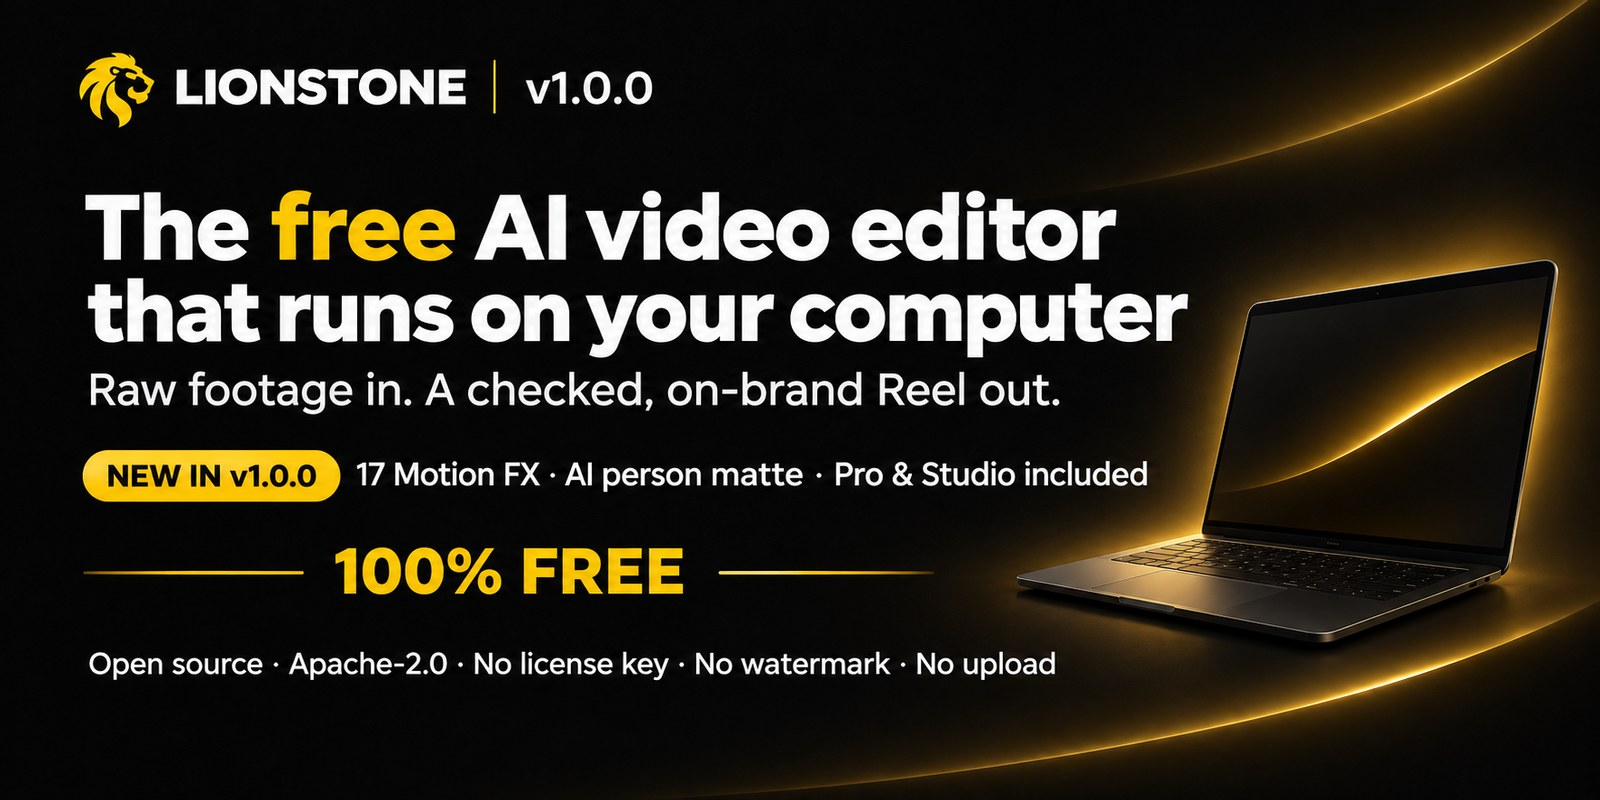
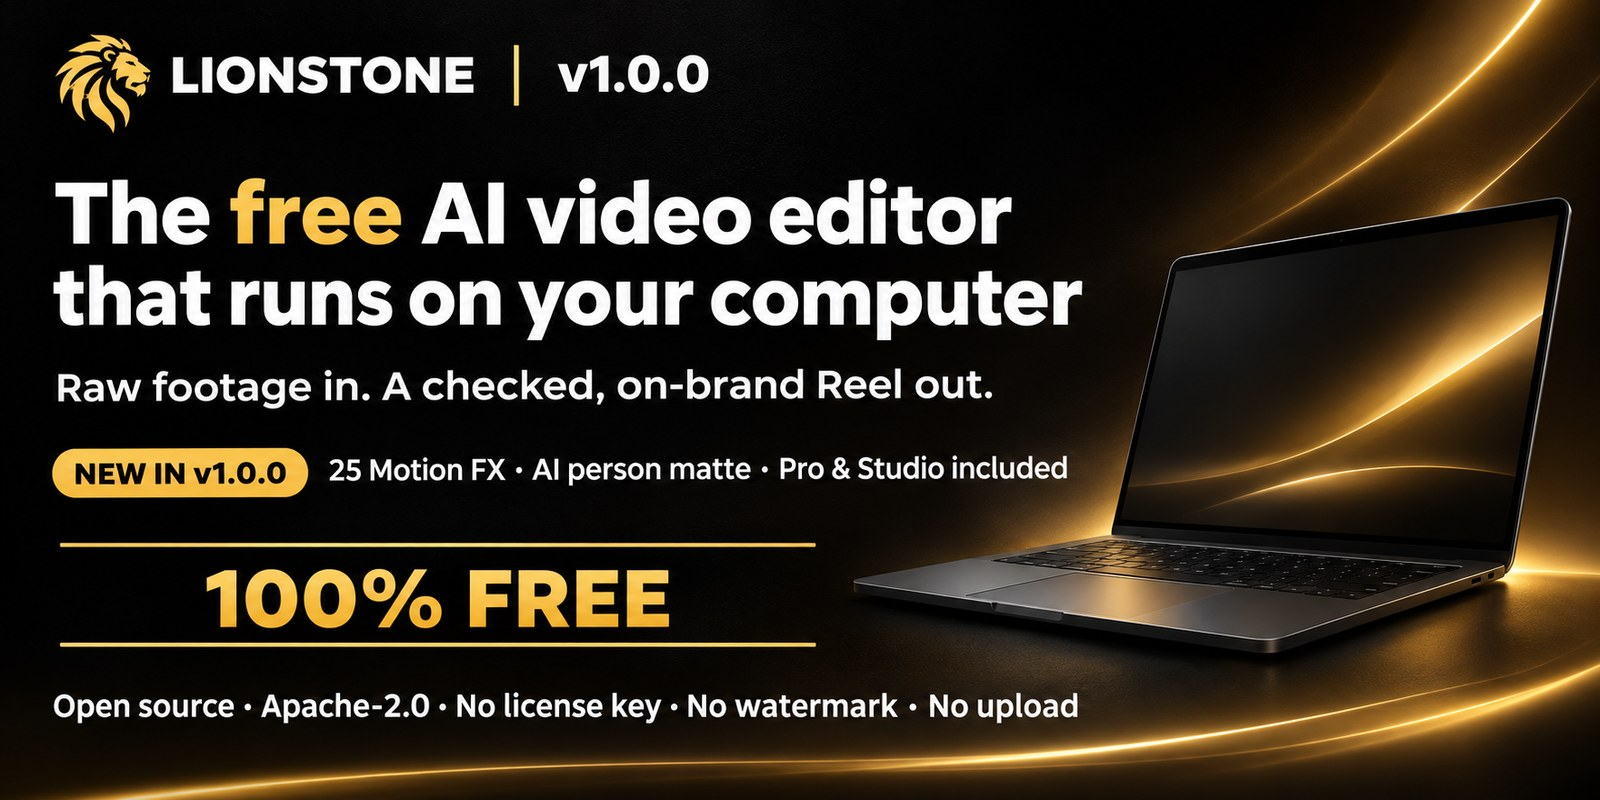
v1.0.0: Motion FX 2 is part of the release (25 Motion FX)
Docs, changelog, release notes and images now present one 25-effect
Motion FX Pack plus Theatre.js keyframes and the Synfig backend in v1.0.0.
Banner rebuilt from real renders; launch, overview and package images
refreshed with the ChatGPT Visual Post & Carousel Director.

diff --git a/scripts/build_motionfx_visuals.py b/scripts/build_motionfx_visuals.py
@@ -52,7 +52,7 @@ FX = [
     ("glass-type", "Glass Type", "Big glass letters behind you.", (0, 8), 2.0, {"text": "FOCUS"}),
 ]
 
-# Motion FX 2 (1.1)
+# Motion FX 2 (1.0)
 FX2 = [
     ("split-flap", "Split-flap Board", "A departures board spells your word.", (0, 8), 2.2, {}),
     ("count-up", "Count-up Stat", "Your number counts up on a card.", (0, 8), 2.4, {}),
@@ -302,7 +302,7 @@ def banner(cover: Path, frames, path: Path) -> None:
     im.paste(hd, (40, 30), hd)
     d = ImageDraw.Draw(im)
     d.text((60, 190), "Motion FX Pack", font=font(BOLD, 64), fill="white")
-    d.text((60, 270), "17 effects", font=font(BOLD, 64), fill=GOLD)
+    d.text((60, 270), "25 effects", font=font(BOLD, 64), fill=GOLD)
     for i, line in enumerate(("One command each. An AI person matte", "puts you in front of the frame.")):
         d.text((60, 380 + i * 38), line, font=font(MED, 26), fill=(225, 225, 230))
     d.text((60, 560), "100% free · open source · runs on your computer", font=font(BOLD, 24),

diff --git a/tools/gen_motion_presets.py b/tools/gen_motion_presets.py
@@ -3,7 +3,7 @@
 Run after editing: python tools/gen_motion_presets.py
 
 Twenty-five motion-design effects for talking-head Reels, Shorts and videos: the 17 of
-Lionstone 1.0 and the 8 of Motion FX 2 (1.1). Every name, look and parameter set is
+Lionstone 1.0 and the 8 of Motion FX 2 (also 1.0). Every name, look and parameter set is
 original to Lionstone; the renderers are FFmpeg filter math in
 ``features/renderers/motion_fx.py`` and ``motion_fx2.py`` plus the bundled Poppins /
 DM Serif Display fonts (SIL OFL). No stock assets are bundled.

diff --git a/integrations/openmontage/install.py b/integrations/openmontage/install.py
@@ -14,7 +14,7 @@ import sys
 from pathlib import Path
 
 HERE = Path(__file__).resolve().parent
-ROW = ("| Lionstone Motion FX | `core/lionstone-motion-fx.md` | 17 Motion FX + 12 Reel FX "
+ROW = ("| Lionstone Motion FX | `core/lionstone-motion-fx.md` | 25 Motion FX + 12 Reel FX "
        "on talking-head clips, AI person matte | `lionstone_motion_fx` |")
 
 

diff --git a/src/lionstone/pro/features/renderers/motion_fx2.py b/src/lionstone/pro/features/renderers/motion_fx2.py
@@ -1,4 +1,4 @@
-"""Motion FX 2 — eight more motion-design effects for talking-head video (Lionstone 1.1).
+"""Motion FX 2 — eight more motion-design effects for talking-head video (Lionstone 1.0).
 
 Split-flap Board, Count-up Stat, Beat Type, Day Grid, Particle Reveal, Receipt,
 Notification Stack and Before/After.

diff --git a/README.md b/README.md
@@ -1,5 +1,5 @@
 <p align="center">
-  <a href="https://github.com/ismailarslantas/lionstone/releases/latest"><img src="docs/img/motionfx-banner.jpg" alt="Lionstone v1.0.0 Motion FX Pack: 17 effects, one command each, an AI person matte puts you in front of the frame. 100% free, open source, runs on your computer" width="100%"></a>
+  <a href="https://github.com/ismailarslantas/lionstone/releases/latest"><img src="docs/img/motionfx-banner.jpg" alt="Lionstone v1.0.0 Motion FX Pack: 25 effects, one command each, an AI person matte puts you in front of the frame. 100% free, open source, runs on your computer" width="100%"></a>
 </p>
 
 <p align="center">
@@ -15,7 +15,7 @@
 </p>
 
 <p align="center">
-  <b>Lionstone v1.0.0 is 100% free: the complete AI video editor, now with 17 Motion FX.</b><br>
+  <b>Lionstone v1.0.0 is 100% free: the complete AI video editor, now with 25 Motion FX.</b><br>
   Motion FX Pack with a person matte, brand-specific Reels workflow, brand identity, visual catalogue, multicam, Creative Suite, Shorts generator, NLE export, team tools and Lionstone Styles, all in one open-source package.<br>
   Local-first · no upload · no license key · no watermark · works offline<br>
   <a href="https://github.com/ismailarslantas/lionstone/releases/latest">Latest release</a> · <a href="docs/motion-fx.md">Motion FX</a> · <a href="docs/reels.md">Reels guide</a> · <a href="docs/handbook/README.md">Reel Handbook (free PDF)</a> · <a href="docs/brand-setup.md">Brand setup</a>
@@ -26,7 +26,7 @@ pip install "lionstone[all] @ git+https://github.com/ismailarslantas/lionstone"
 lionstone doctor
 ```
 
-<img src="assets/launch/00-whats-new-v1.jpg" alt="What's in Lionstone v1.0.0: Motion FX Pack with 17 new one-command effects, AI person matte, Reel FX Pack with 12 effects, Lionstone Reels, Lionstone Styles, Creative Suite with 133 looks, effects and motion presets, Pro and Studio free in the core, OpenMontage tool for AI agents, signed releases with SHA256SUMS and build provenance. Everything from v0.3 and v0.4 in one free release, Apache-2.0" width="100%">
+<img src="assets/launch/00-whats-new-v1.jpg" alt="What's in Lionstone v1.0.0: Motion FX Pack with 25 new one-command effects, AI person matte, Reel FX Pack with 12 effects, Lionstone Reels, Lionstone Styles, Creative Suite with 133 looks, effects and motion presets, Pro and Studio free in the core, OpenMontage tool for AI agents, signed releases with SHA256SUMS and build provenance. Everything from v0.3 and v0.4 in one free release, Apache-2.0" width="100%">
 
 ---
 
@@ -36,11 +36,11 @@ lionstone doctor
 
 There is no paid tier to find out about later. Every feature on this page ships in this repository under Apache-2.0: no license key, no account, no watermark, no per-video fee, and nothing leaves your computer. The one cost outside Lionstone: writing hooks and scripts with Claude uses your own Claude plan. Editing, QA and rendering run on your machine.
 
-<img src="assets/launch/15-everything.jpg" alt="Everything in one free package: speech-aware editing, Lionstone Reels, brand identity, AI person matte, Creative Suite, Reel FX and Motion FX with 29 one-command effects, Shorts generator, multicam, style learning, NLE export, team tools, QA and MCP" width="100%">
+<img src="assets/launch/15-everything.jpg" alt="Everything in one free package: speech-aware editing, Lionstone Reels, brand identity, AI person matte, Creative Suite, Reel FX and Motion FX with 37 one-command effects, Shorts generator, multicam, style learning, NLE export, team tools, QA and MCP" width="100%">
 
-### 🎬 New in v1.0.0: Motion FX Pack, 17 effects with a person matte
+### 🎬 New in v1.0.0: Motion FX Pack, 25 effects with a person matte
 
-<img src="docs/img/motionfx-banner.jpg" alt="Lionstone 1.0 Motion FX Pack: 17 motion-design effects for talking-head video, one command each" width="100%">
+<img src="docs/img/motionfx-banner.jpg" alt="Lionstone 1.0 Motion FX Pack: 25 motion-design effects for talking-head video, one command each" width="100%">
 
 Orbit, Couch Wall, UI World, Frame Break, Digital Zoom, Phone Mockup, Checklist, Headline Wall, Zoom-through Cut, Chart Grow, Pull-back Reveal, Green Screen, Paper Cut, Doodle Boil, Vertigo, Cover Story and Glass Type. One command each, on 9:16, 1:1 and 16:9:
 
@@ -56,7 +56,7 @@ Five of them know where you are in the shot: a small AI model (U²-Net, CPU, cac
 
 Full guide with every parameter: [docs/motion-fx.md](docs/motion-fx.md). Apply one effect to any clip with `lionstone fx clip glass-type talk.mp4 -o out.mp4`, or use them from [OpenMontage](docs/openmontage.md).
 
-#### Motion FX 2: 8 more effects
+#### Also in v1.0.0: Motion FX 2, 8 more effects
 
 <img src="docs/img/motionfx2-real-renders.jpg" alt="Real Lionstone renders of the 8 Motion FX 2 effects: split-flap board, count-up stat, beat type, day grid, particle reveal, receipt, notification stack and before/after" width="100%">
 
@@ -404,7 +404,7 @@ Every feature is free and open source (Apache-2.0): no license key, no account, 
 | **Multicam**: audio sync with drift check, active-speaker switching | `lionstone multicam` |
 | **Style learning** from 1-3 reference videos | `lionstone style learn` |
 | **Shorts/Reels generator**: best moments → 9:16, face-tracked reframe, hook titles | `lionstone clips` |
-| **Motion FX Pack** (1.0): 17 motion-design effects, person matte for 5 of them | `lionstone fx list --category motion-fx` · `fx matte` |
+| **Motion FX Pack** (1.0): 25 motion-design effects (17 + Motion FX 2), person matte for 5 of them, Theatre.js keyframes, Synfig backend | `lionstone fx list --category motion-fx` · `fx matte` |
 | **Reel FX Pack**: 12 one-command Reels/Shorts effects + 6.4 s showcase reels | `lionstone fx list --category reel-fx` · `fx showcase` |
 | **Project export**: FCPXML (Resolve / Final Cut) + EDL (Premiere) | `lionstone export` |
 | **Team tools**: brand kits, roles, versioned and locked presets, batch apply | `lionstone team` · `brand` · `preset` · `fx batch` |

diff --git a/docs/releases/v1.0.0.md b/docs/releases/v1.0.0.md
@@ -1,6 +1,6 @@
 ![Lionstone v1.0.0: the free AI video editor that runs on your computer](https://raw.githubusercontent.com/ismailarslantas/lionstone/v1.0.0/assets/launch/13-launch.jpg)
 
-**Lionstone v1.0.0 is the first complete release: the whole AI video editor in one free, open-source package. It adds the Motion FX Pack (17 effects, one command each) and an AI person matte that puts you in front of the frame. Everything from v0.3 and v0.4 is included. No license key, no watermark, no upload. Apache-2.0.**
+**Lionstone v1.0.0 is the first complete release: the whole AI video editor in one free, open-source package. It adds the Motion FX Pack (25 effects, one command each) and an AI person matte that puts you in front of the frame. Everything from v0.3 and v0.4 is included. No license key, no watermark, no upload. Apache-2.0.**
 
 ![What's in v1.0.0](https://raw.githubusercontent.com/ismailarslantas/lionstone/v1.0.0/assets/launch/00-whats-new-v1.jpg)
 
@@ -8,13 +8,17 @@
 
 ![Motion FX Pack](https://raw.githubusercontent.com/ismailarslantas/lionstone/v1.0.0/docs/img/motionfx-banner.jpg)
 
-- **Motion FX Pack: 17 motion-design effects** for talking-head Reels, Shorts and videos (9:16, 1:1, 16:9): Orbit, Couch Wall, UI World, Frame Break, Digital Zoom, Phone Mockup, Checklist, Headline Wall, Zoom-through Cut, Chart Grow, Pull-back Reveal, Green Screen, Paper Cut, Doodle Boil, Vertigo, Cover Story and Glass Type. The preview, the showcase reel and the final export use the same FFmpeg code. Guide: [docs/motion-fx.md](https://github.com/ismailarslantas/lionstone/blob/v1.0.0/docs/motion-fx.md).
+- **Motion FX Pack: 25 motion-design effects** for talking-head Reels, Shorts and videos (9:16, 1:1, 16:9): Orbit, Couch Wall, UI World, Frame Break, Digital Zoom, Phone Mockup, Checklist, Headline Wall, Zoom-through Cut, Chart Grow, Pull-back Reveal, Green Screen, Paper Cut, Doodle Boil, Vertigo, Cover Story, Glass Type, and the eight of Motion FX 2: Split-flap Board, Count-up Stat, Beat Type, Day Grid, Particle Reveal, Receipt, Notification Stack and Before/After. The preview, the showcase reel and the final export use the same FFmpeg code. Guide: [docs/motion-fx.md](https://github.com/ismailarslantas/lionstone/blob/v1.0.0/docs/motion-fx.md).
 - **AI person matte.** Frame Break, Vertigo, Glass Type, Green Screen and Doodle Boil cut you out of the shot: your head breaks over the frame, big type sits behind you, and any room becomes a brand stage without a green screen. It uses U²-Net small (4.6 MB, Apache-2.0) on the CPU, downloaded once, checked by SHA-256 and cached per file. It is automatic with `lionstone[all]`; without OpenCV the effects fall back to their plain FFmpeg versions.
+- **Theatre.js keyframes for Remotion titles**: the `useTheatreSequence()` hook drives a title from a keyframed Theatre.js sequence (`@theatre/core`, Apache-2.0). Guide: [docs/motion-fx-2.md](https://github.com/ismailarslantas/lionstone/blob/v1.0.0/docs/motion-fx-2.md).
+- **Synfig backend** (optional): `lionstone fx synfig overlay.sif --input talk.mp4 -o out.mp4` renders a Synfig animation with the external `synfig` program and composites it over your video. Synfig (GPL) runs as a separate program and is never bundled.
 - **`lionstone fx clip <effect> in.mp4 -o out.mp4`**: apply one effect to a whole clip at its own size.
 - **OpenMontage tool**: use Lionstone's effects from AI video agents through the `lionstone_motion_fx` tool and skill ([docs/openmontage.md](https://github.com/ismailarslantas/lionstone/blob/v1.0.0/docs/openmontage.md)).
 - **Signed, verifiable releases and a hardened repository**: CodeQL code scanning, OpenSSF Scorecard, Dependabot, actions pinned to commit SHAs with read-only tokens, CODEOWNERS, and release files built by GitHub Actions with `SHA256SUMS` and a signed build provenance attestation ([SECURITY.md](https://github.com/ismailarslantas/lionstone/blob/v1.0.0/SECURITY.md)).
 
-![Real renders of the 17 Motion FX](https://raw.githubusercontent.com/ismailarslantas/lionstone/v1.0.0/docs/img/motionfx-real-renders.jpg)
+![Real renders of the first 17 Motion FX](https://raw.githubusercontent.com/ismailarslantas/lionstone/v1.0.0/docs/img/motionfx-real-renders.jpg)
+
+![Real renders of the 8 Motion FX 2 effects](https://raw.githubusercontent.com/ismailarslantas/lionstone/v1.0.0/docs/img/motionfx2-real-renders.jpg)
 
 *Real Lionstone renders on a fictional example character.*
 

diff --git a/CHANGELOG.md b/CHANGELOG.md
@@ -1,9 +1,11 @@
 # Changelog
 
 ## 1.0.0 — 2026-11-09
-**Lionstone 1.0: the Motion FX Pack. Seventeen motion-design effects, one command each, and a person matte that puts you in front of the frame. Free as ever.**
+**Lionstone 1.0: the Motion FX Pack. Twenty-five motion-design effects, one command each, and a person matte that puts you in front of the frame. Free as ever.**
 
-- **Motion FX Pack** (catalogue category `motion-fx`, 162 presets in total, 122 ready to render): `orbit`, `couch-wall`, `ui-world`, `frame-break`, `digital-zoom`, `phone-mockup`, `checklist`, `headline-wall`, `zoom-through-cut`, `chart-grow`, `pull-back-reveal`, `green-screen`, `paper-cut`, `doodle-boil`, `vertigo`, `cover-story`, `glass-type`. FFmpeg filter math plus the bundled fonts (`pro/features/renderers/motion_fx.py`), relative geometry for 9:16, 1:1 and 16:9, the same builders for preview, showcase and export. Guide: [docs/motion-fx.md](docs/motion-fx.md).
+- **Motion FX Pack** (catalogue category `motion-fx`, 170 presets in total, 129 ready to render): `orbit`, `couch-wall`, `ui-world`, `frame-break`, `digital-zoom`, `phone-mockup`, `checklist`, `headline-wall`, `zoom-through-cut`, `chart-grow`, `pull-back-reveal`, `green-screen`, `paper-cut`, `doodle-boil`, `vertigo`, `cover-story`, `glass-type`, and the eight of Motion FX 2: `split-flap`, `count-up`, `beat-type`, `day-grid`, `particle-reveal`, `receipt`, `notification-stack`, `before-after` ([docs/motion-fx-2.md](docs/motion-fx-2.md)). FFmpeg filter math plus the bundled fonts (`pro/features/renderers/motion_fx.py`), relative geometry for 9:16, 1:1 and 16:9, the same builders for preview, showcase and export. Guide: [docs/motion-fx.md](docs/motion-fx.md).
+- **Theatre.js keyframes for Remotion titles**: the `useTheatreSequence()` hook drives a title from a keyframed Theatre.js sequence (`@theatre/core`, Apache-2.0; the AGPL Studio editor is not included).
+- **Synfig backend** (optional): `lionstone fx synfig overlay.sif` renders a Synfig animation with the external `synfig` program and composites it with FFmpeg; Synfig (GPL) runs as a separate process and is never bundled.
 - **Person matte** (`lionstone/pro/matte.py`): Frame Break, Vertigo, Glass Type, Green Screen and Doodle Boil cut you out of the shot, so your head breaks over the frame, the type sits behind you and any background becomes a brand stage without a green screen. Built automatically when OpenCV is installed (`lionstone[all]` or `lionstone[vision]`) with U²-Net small (4.6 MB, Apache-2.0, downloaded once from GitHub, SHA-256 checked), on the CPU, cached per file. `lionstone fx matte talk.mp4` builds it ahead. Without OpenCV, or with `LIONSTONE_MATTE=0`, the plain FFmpeg versions render and the compile report says so.
 - Renders, previews and showcase reels feed the matte with the same cuts as the video (`render.build_graph(matte_input=…)`).
 - Text in effects is literal: `%` in a label no longer breaks the render (`expansion=none`), and bundled fonts load from Windows user folders with non-ASCII names (FreeType can't open those paths, so fonts are used from a temp copy).

diff --git a/docs/PRO.md b/docs/PRO.md
@@ -31,7 +31,7 @@ Original Lionstone looks, effects, transitions, motion and animated text — pre
 | `lionstone fx text plan.json counter-up --text "Customers" --at 12 --param to=250` | 25 animated text presets — Word Pop, Counter Up, Price Reveal, Stat, Location/Speaker labels, CTA, Type-on, End Card — plus karaoke captions. |
 | `lionstone fx auto plan.json --content vlog --style social` | Lionstone Agent picks one consistent look, emphasis zooms and transitions on real topic changes, within budgets — with a reason for every decision. |
 | `lionstone fx render plan.json` | Compile + render + QA (flash limit ≤ 3/s, exposure, saturation, stale-edit check). |
-| `lionstone fx apply plan.json frame-break --source 0-3` · `lionstone fx matte talk.mp4` | **Motion FX Pack** (1.0): 17 motion-design effects (orbit, couch-wall, ui-world, frame-break, digital-zoom, phone-mockup, checklist, headline-wall, zoom-through-cut, chart-grow, pull-back-reveal, green-screen, paper-cut, doodle-boil, vertigo, cover-story, glass-type) with a person matte for five of them. Guide: [motion-fx.md](motion-fx.md). |
+| `lionstone fx apply plan.json frame-break --source 0-3` · `lionstone fx matte talk.mp4` | **Motion FX Pack** (1.0): 25 motion-design effects (orbit, couch-wall, ui-world, frame-break, digital-zoom, phone-mockup, checklist, headline-wall, zoom-through-cut, chart-grow, pull-back-reveal, green-screen, paper-cut, doodle-boil, vertigo, cover-story, glass-type, split-flap, count-up, beat-type, day-grid, particle-reveal, receipt, notification-stack, before-after) with a person matte for five of them. Guide: [motion-fx.md](motion-fx.md). |
 | `lionstone fx apply plan.json stage-light --source 0-3.5` · `lionstone fx showcase stage-light talk.mp4` | **Reel FX Pack**: 12 one-command effects for Reels & Shorts (stage-light, press-mono, frost-panels, duotone-pop, scan-line, afterimage, halo-orbit, neon-outline, insight-split, brand-frame, progress-rail, pixel-resolve) and 6.4 s showcase reels. Guide: [reel-fx.md](reel-fx.md). |
 
 Features that aren't finished yet (two-clip cross dissolves, particles, subject masking) are listed as **planned** in the catalog — never shipped as buttons that do nothing. Text presets need an FFmpeg build with `drawtext`; on builds without it (e.g. Homebrew's default), Lionstone skips them with a clear message.

diff --git a/docs/motion-fx.md b/docs/motion-fx.md
@@ -1,4 +1,4 @@
-# Motion FX Pack: 17 motion-design effects (new in Lionstone 1.0)
+# Motion FX Pack: 25 motion-design effects (new in Lionstone 1.0)
 
 ![Motion FX Pack](img/motionfx-banner.jpg)
 
@@ -58,7 +58,7 @@ to put you in front of the frame, the type or the new backdrop.
   plain FFmpeg versions (a centred column, a soft oval, type over you, chroma key) and the
   compile report says so. Multicam plans use the plain versions.
 
-## The 17 effects
+## The first 17 effects (the other 8 are in [Motion FX 2](motion-fx-2.md))
 
 | # | Effect | Promise | Key parameters (default) | Cost | Matte |
 |---|---|---|---|---|---|

diff --git a/docs/guides/creative-features.md b/docs/guides/creative-features.md
@@ -56,7 +56,7 @@ Every decision has a reason. Remove `--dry-run` to apply it. Content types: `pod
 
 ## Step 4 — Or choose yourself
 
-**Browse and preview.** 162 presets in the catalog, 122 ready today including the 12 Reel FX and the 17 Motion FX: 28 looks, 19 effects,
+**Browse and preview.** 170 presets in the catalog, 129 ready today including the 12 Reel FX and the 25 Motion FX: 28 looks, 19 effects,
 11 transitions, 6 motion presets, 25 animated text presets and 3 caption styles.
 
 ```bash

diff --git a/docs/openmontage.md b/docs/openmontage.md
@@ -3,7 +3,7 @@
 [OpenMontage](https://github.com/OpenMontageInc/OpenMontage) is an open-source, agent-driven
 video production system (scripts, scene plans, generated footage, Remotion compositions).
 Lionstone 1.0 plugs into it as a tool, so an OpenMontage production can finish a talking-head
-shot with any of the 17 Motion FX or the 12 Reel FX, including the AI person matte.
+shot with any of the 25 Motion FX or the 12 Reel FX, including the AI person matte.
 
 ## Install
 
